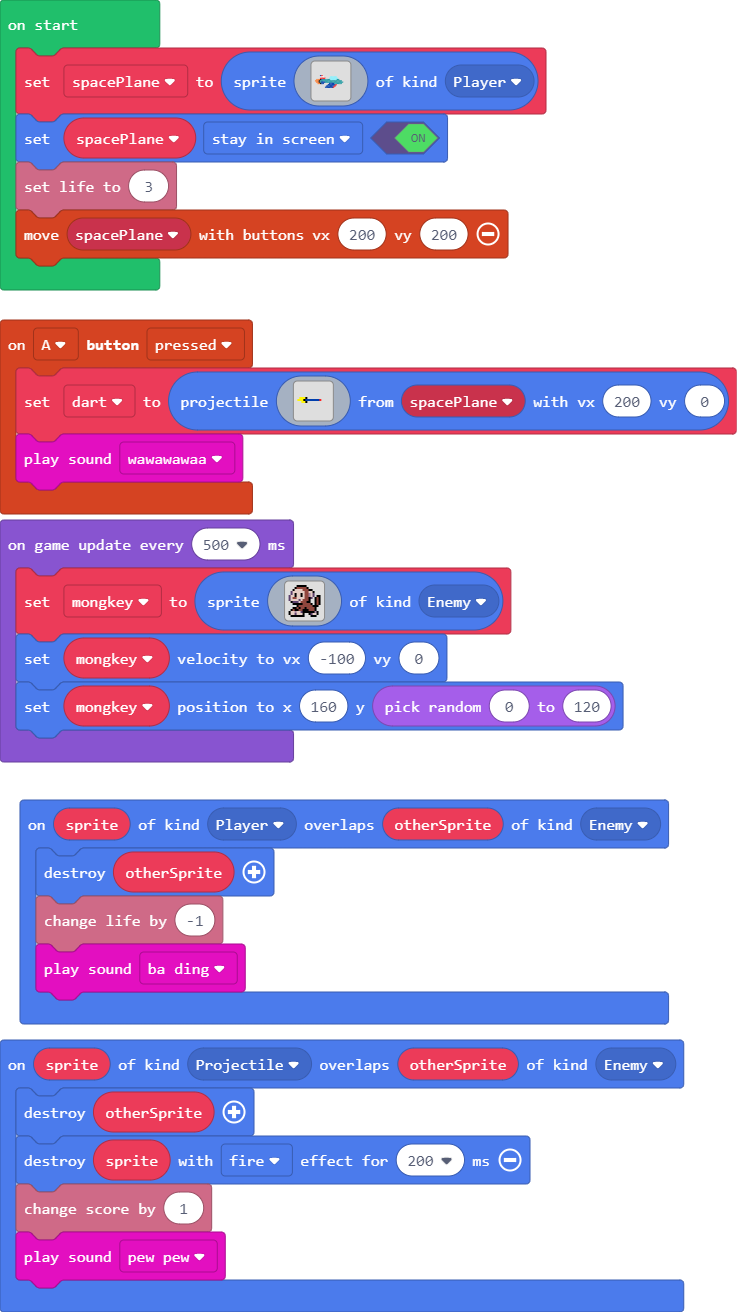
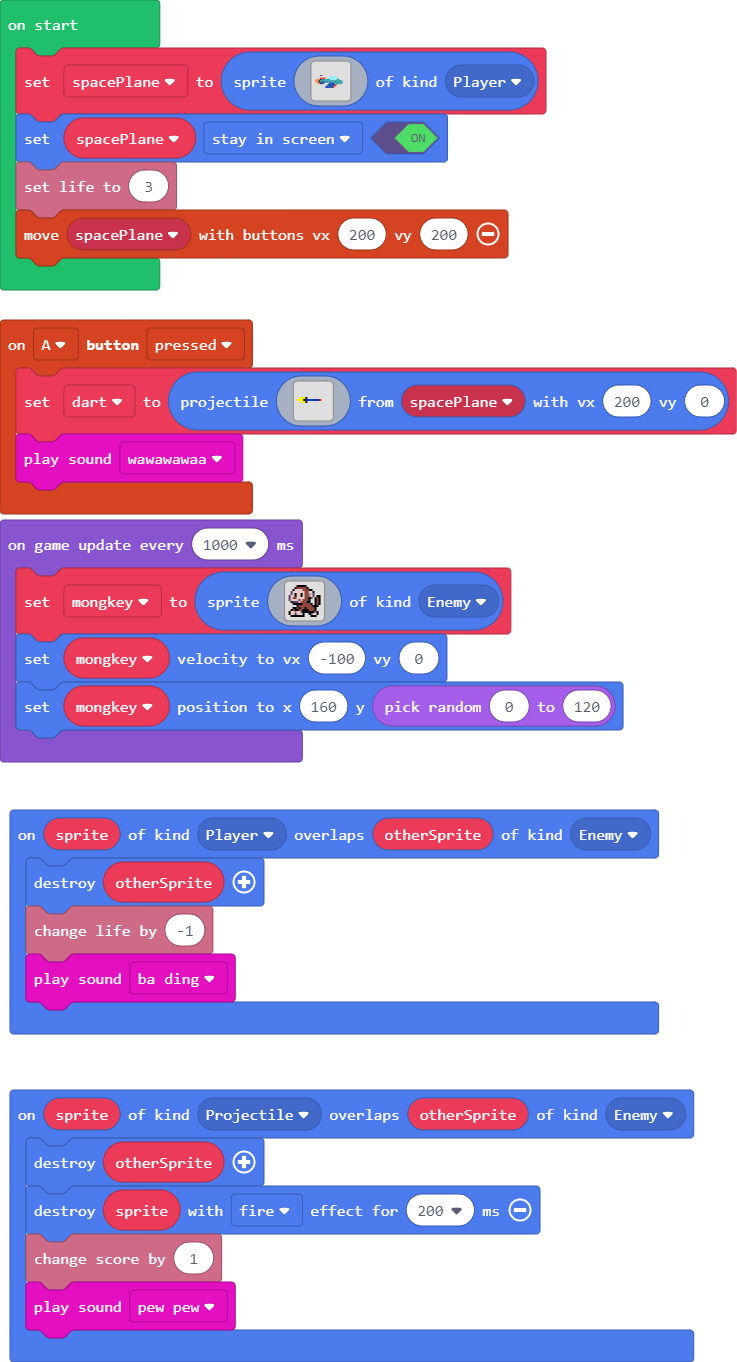
Update main.blocks, main.ts

diff --git a/main.ts b/main.ts
@@ -54,7 +54,7 @@ spacePlane = sprites.create(img`
 spacePlane.setFlag(SpriteFlag.StayInScreen, true)
 info.setLife(3)
 controller.moveSprite(spacePlane, 200, 200)
-game.onUpdateInterval(500, function () {
+game.onUpdateInterval(1000, function () {
     mongkey = sprites.create(img`
 . . . . f f f f f . . . . . . . 
 . . . f e e e e e f . . . . . . 
